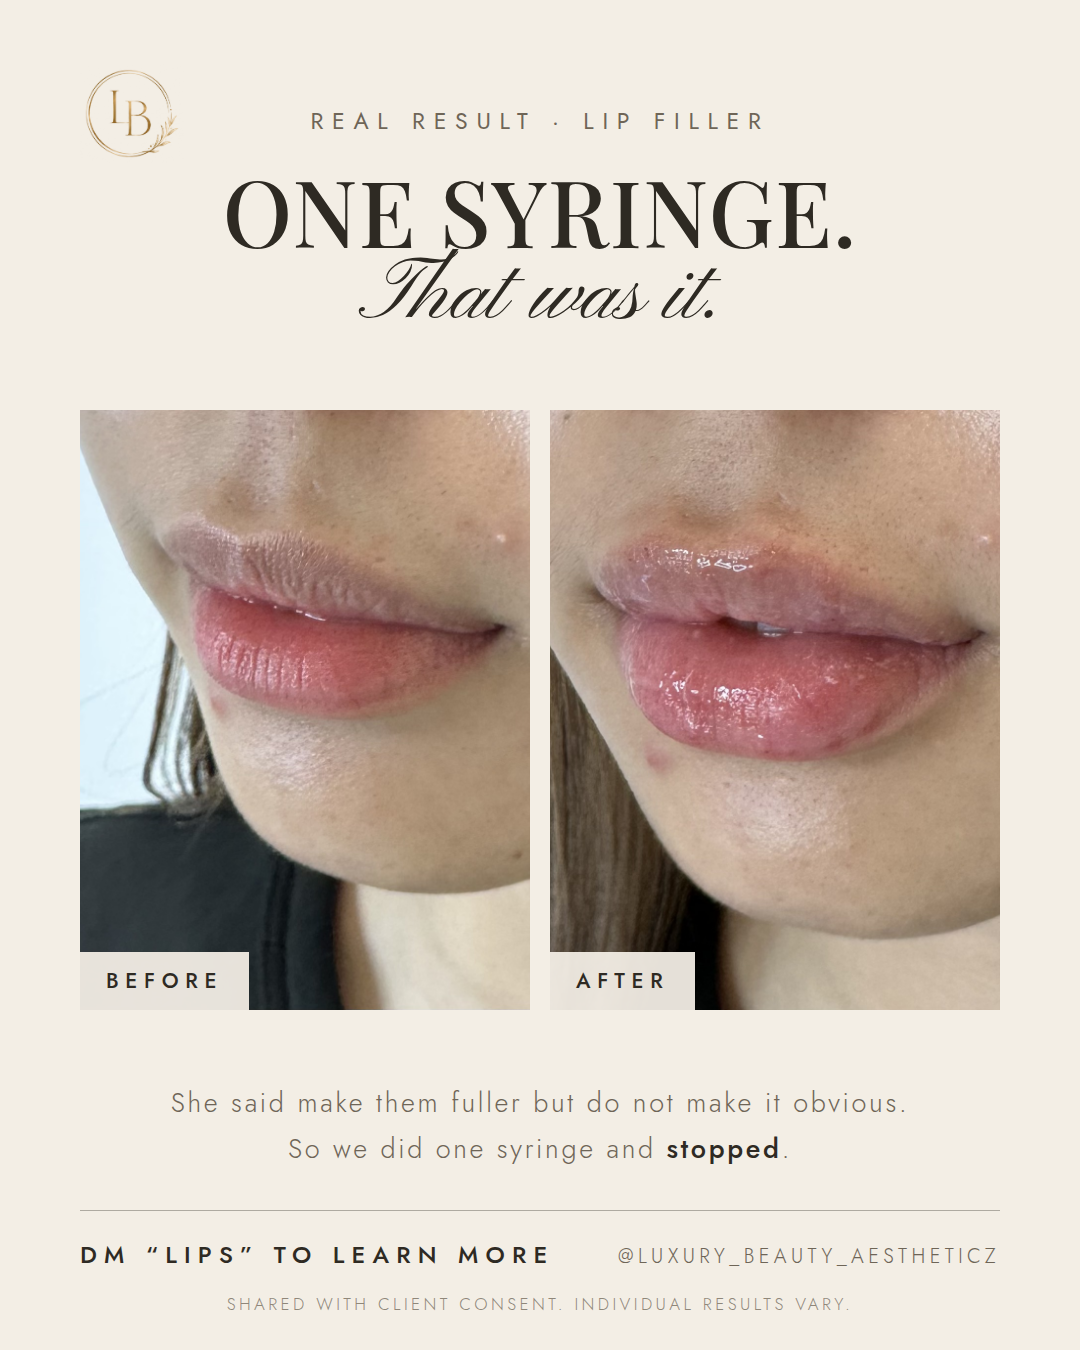
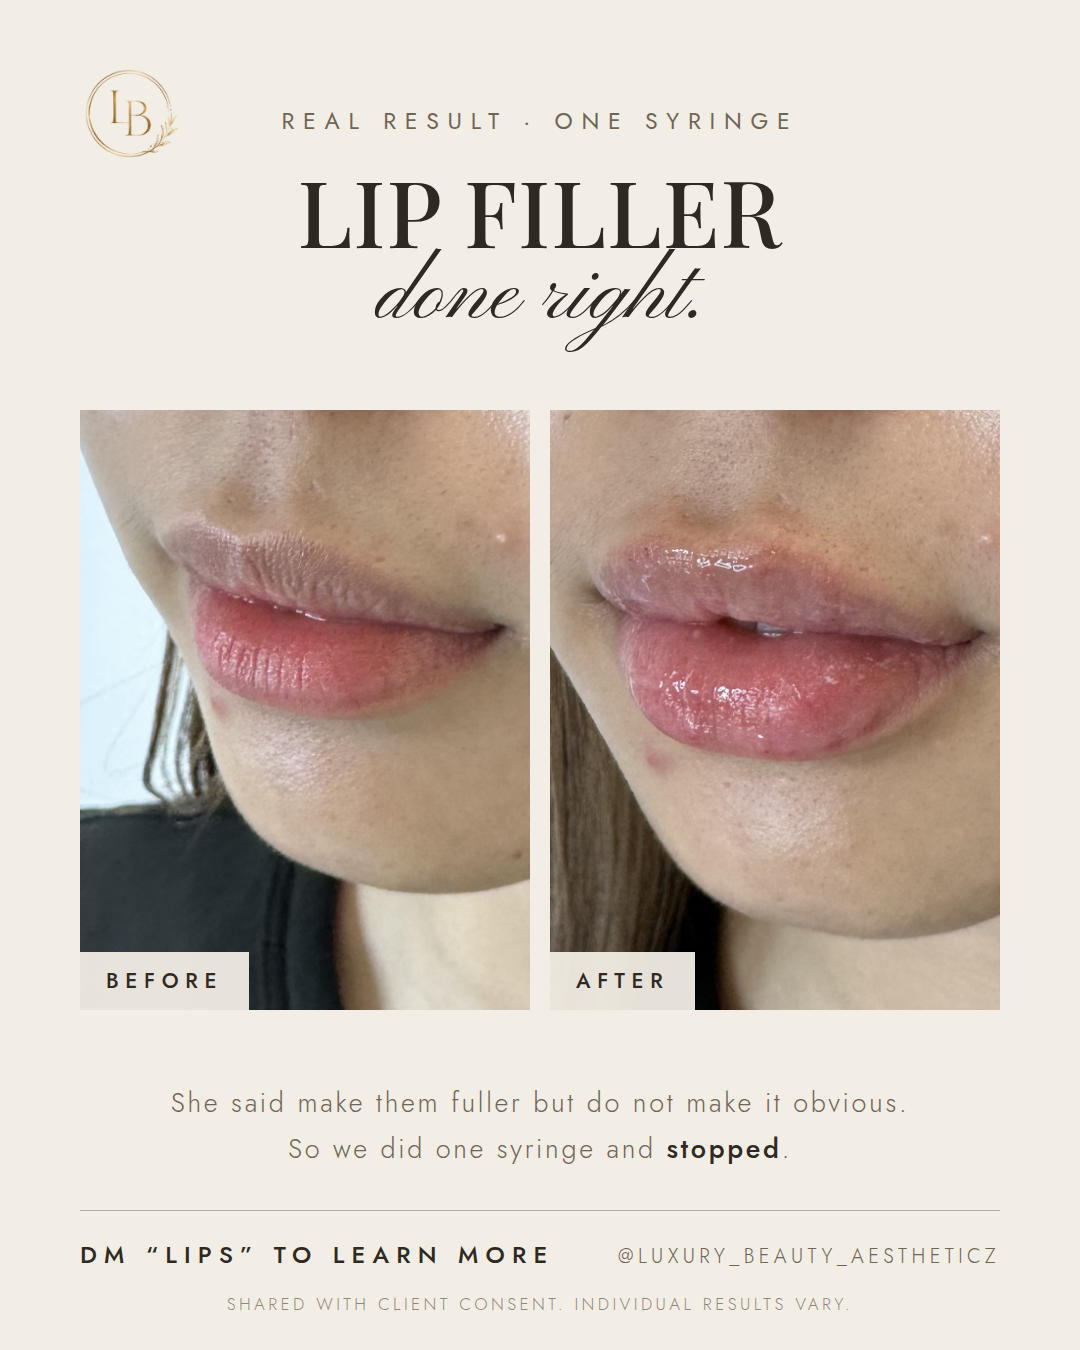
Change before and after heading to Lip Filler done right
Claude-Session: https://claude.ai/code/session_01SLor5oRycb3mTg2nxeqzj7

diff --git a/design/before-after.html b/design/before-after.html
@@ -83,10 +83,10 @@
 <div class="slide" id="slide1">
   <img class="monogram" src="brand/logo-monogram.png" width="104" alt="LB">
   <div class="head">
-    <div class="label">Real Result &#183; Lip Filler</div>
+    <div class="label">Real Result &#183; One Syringe</div>
     <div class="title">
-      <div class="serif">ONE SYRINGE.</div>
-      <div class="script">That was it.</div>
+      <div class="serif">LIP FILLER</div>
+      <div class="script">done right.</div>
     </div>
   </div>
 
